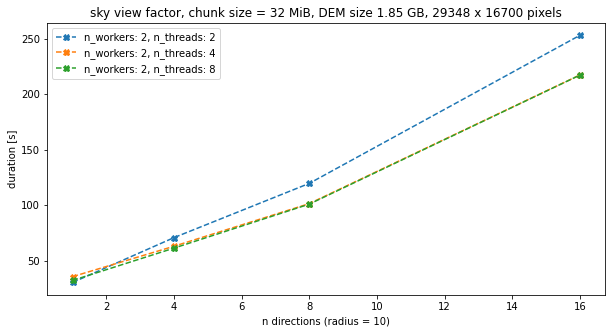
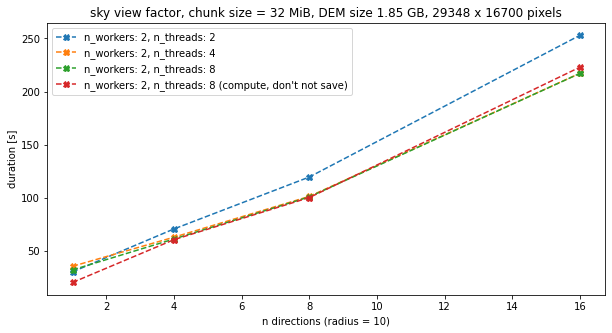
Added compute() results to plot.

diff --git a/TODO.md b/TODO.md
@@ -63,11 +63,12 @@ Additionally, try improving [graph serialization](https://docs.dask.org/en/lates
 4. possible leak on Local Cluster, revert to dask version [2022.01.1](https://github.com/dask/distributed/issues/5960).❌
 - Raster datasets are usually stored in blocks (tiles). It is better to  make dask chunks **N * original tile dimensions** to avoid bringing up more data than is needed each time the data is accesed. If `chunks = True` when loading data with `rioxarray.open_rasterio ` automatic chunkig is done in a way that takes into account default tiling and **N** is determined in a way that each chunk size is 128MiB (_Dask default, better performance and higher success/failed to finish ratio was recorded with smaller chunk size, but it depends on the hardware and data size...scalability?_). Set chunk size `dask.config.set({"array.chunk-size": limit})`. 
 Graphs below were generated as results of computations with dask distributed, running Local Cluster on a machine with total of 32 GB RAM (`psutil.virtual_memory().total = 32 GB`) and 16 cores (`sum(client.ncores().values()) = 16`). Aprox. 64 MiB equals chunk of size (4096, 4096) = 32 * (128, 128).
-Computation times for visualization `sky_view_factor`. No significant speedup from 8 cores to 16 cores. Probably can't take adavntage of all cores on a computer, because there is not enough RAM to run more tasks in parallel. Linear increase in computation time with number of directions.
+Computation times for visualization `sky_view_factor`. No significant speedup from 8 cores to 16 cores. Probably can't take adavntage of all cores on a computer, because there is not enough RAM to run more tasks in parallel. The times include writing resulting file to disk, but that doesn't seem to be the bottelneck. Linear increase in computation time with number of directions.
+
 
 ![Sky view factor, two workers](./docs/bmarks/svf_dir_times_2w.png) 
 
-All `dask` resuslts in comparison with pure `numpy` calculation. This is cca. 2 GB size raster and fits in RAM.
+All `dask` resuslts in comparison with pure `numpy` calculation. This is cca. 2 GB size raster and fits in RAM. 
 ![Sky view factor, all results](./docs/bmarks/svf_np_dir_times.png) 
 
 Regarding optimal chunk size and worker vs. thread per worker ratio.
